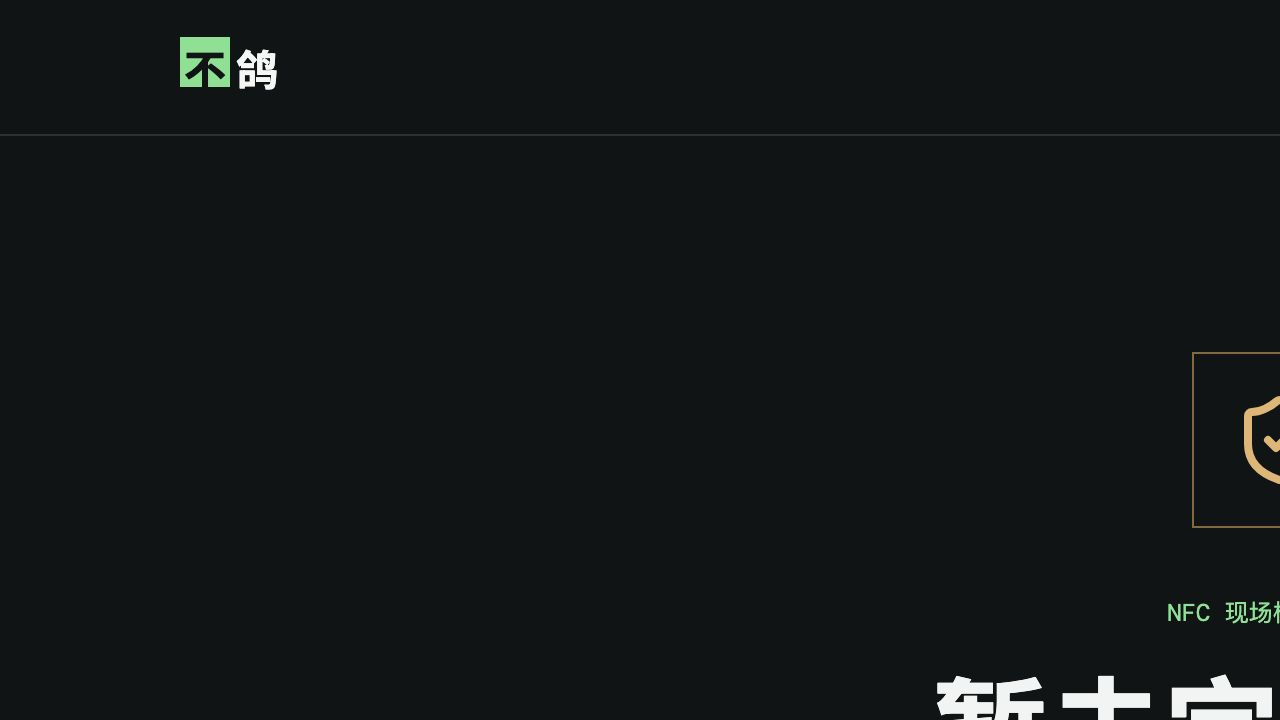
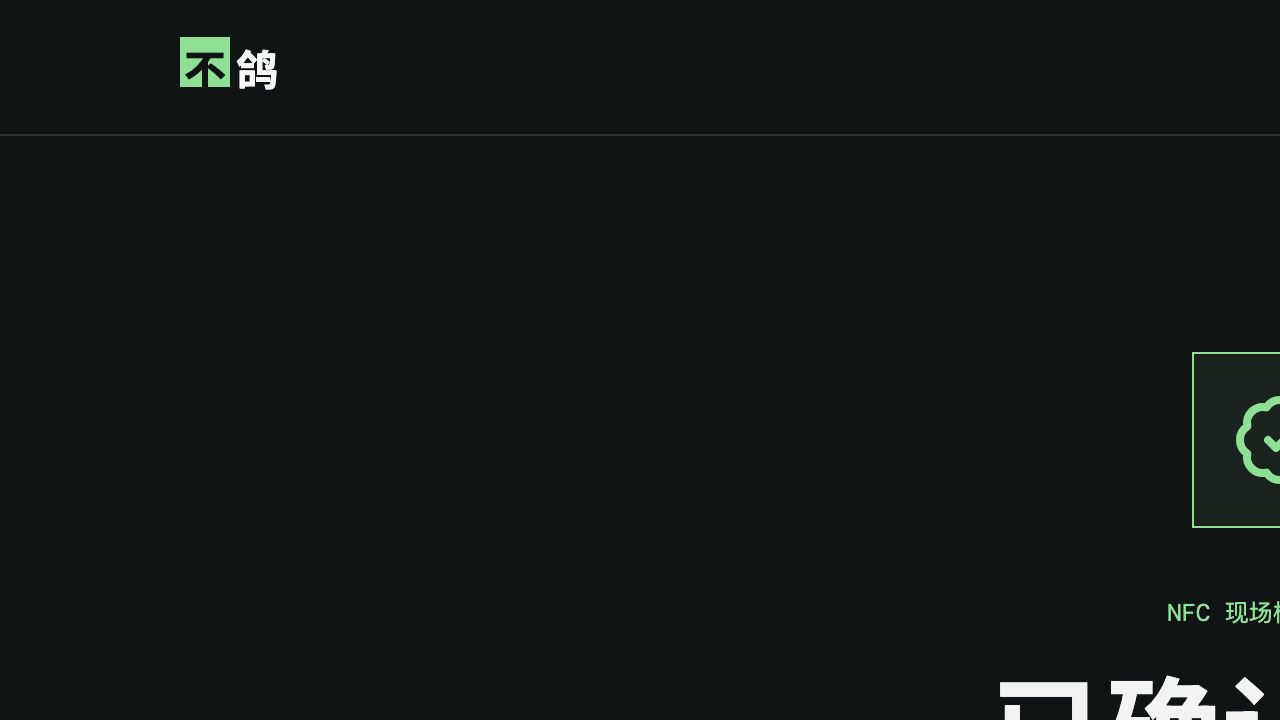
请先连接钱包，读取这场活动的链上状态

diff --git a/src/main.jsx b/src/main.jsx
@@ -32,6 +32,7 @@ import "./styles.css";
 
 const demoAttendees = ["林一", "陈默", "吴青", "周临", "赵禾"];
 const DEMO_STAKE = "1";
+const ATTENDANCE_GAS_LIMIT = 90_000n;
 
 function App() {
   const query = new URLSearchParams(window.location.search);
@@ -49,7 +50,8 @@ function App() {
   const [notice, setNotice] = useState("");
   const [now, setNow] = useState(Date.now());
   const [tapAttempted, setTapAttempted] = useState(false);
-  const [tapState, setTapState] = useState("checking");
+  const [tapState, setTapState] = useState("ready");
+  const [tapToken, setTapToken] = useState(query.get("token") || "");
   const live = Boolean(activeAddress && event);
 
   useEffect(() => {
@@ -96,7 +98,7 @@ function App() {
       setAccount(wallet.address);
       setProvider(wallet.provider);
       const contract = getContract(wallet.signer, activeAddress);
-      const transaction = await action(contract);
+      const transaction = await action(contract, wallet);
       setNotice(`交易已发送：${shortAddress(transaction.hash)}，等待 Monad 最终确认。`);
       await transaction.wait();
       await refresh(wallet.provider, wallet.address);
@@ -149,15 +151,70 @@ function App() {
       } catch {
         // Local Vite preview has no serverless relayer. The connected wallet is only a development fallback.
       }
-      const transaction = await contract.createEvent(attestor, parseEther(DEMO_STAKE), start + 180, start + 420, start + 7200);
+      const nextId = await contract.nextEventId();
+      const transaction = await contract.createEvent(attestor, parseEther(DEMO_STAKE), start + 1800, start + 2700, start + 86400);
       setNotice("正在创建今晚活动...");
       await transaction.wait();
-      setActiveEventId(1);
-      preserveDeploymentLink(activeAddress, 1);
+      setActiveEventId(Number(nextId));
+      preserveDeploymentLink(activeAddress, Number(nextId));
       await refresh(wallet.provider, wallet.address);
-      setNotice(`活动已创建，签到 relayer：${shortAddress(attestor)}。将 /tap?token=现场令牌 写入 NFC。`);
+      setNotice(`活动已创建，签到 relayer：${shortAddress(attestor)}。在 Vercel 配置 TAP_CODES 后，将 /tap?code=短码 写入 NFC。`);
     } catch (error) {
       setNotice(error.shortMessage || error.reason || error.message);
+    } finally {
+      setBusy(false);
+    }
+  };
+
+  const connectAndCheckIn = async () => {
+    if (!window.ethereum) {
+      const dappPath = `${window.location.host}${window.location.pathname}${window.location.search}`;
+      window.location.href = `https://metamask.app.link/dapp/${dappPath}`;
+      return;
+    }
+    setBusy(true);
+    setTapState("checking");
+    try {
+      const wallet = await connectMonadWallet();
+      setAccount(wallet.address);
+      setProvider(wallet.provider);
+      if (!activeAddress) throw new Error("尚未配置不鸽合约地址。");
+      const contract = getContract(wallet.signer, activeAddress);
+      const request = await contract.checkInSelf.populateTransaction(activeEventId);
+      const transaction = await sendWithTightGas(wallet, request);
+      setNotice(`签到交易已发送：${shortAddress(transaction.hash)}，等待 Monad 最终确认。`);
+      await transaction.wait();
+      await refresh(wallet.provider, wallet.address);
+      setTapState("success");
+      setNotice("已到场，Monad 已最终确认。");
+    } catch (error) {
+      setTapState("failed");
+      setNotice(error.shortMessage || error.message || "钱包签到失败");
+    } finally {
+      setBusy(false);
+    }
+  };
+
+  const selfCheckIn = async () => {
+    if (!activeAddress) {
+      setNotice("请先解析签到码或提供合约地址。");
+      return;
+    }
+    setBusy(true);
+    try {
+      const wallet = await connectMonadWallet();
+      setAccount(wallet.address);
+      setProvider(wallet.provider);
+      const contract = getContract(wallet.signer, activeAddress);
+      const tx = await contract.checkInSelf(activeEventId);
+      setNotice(`自行签到已发送：${shortAddress(tx.hash)}，等待 Monad 最终确认。`);
+      await tx.wait();
+      await refresh(wallet.provider, wallet.address);
+      setTapState("success");
+      setNotice("已到场，Monad 已最终确认。");
+    } catch (error) {
+      setTapState("failed");
+      setNotice(error.shortMessage || error.reason || error.message || "自行签到失败");
     } finally {
       setBusy(false);
     }
@@ -179,10 +236,14 @@ function App() {
   }, [demoPresent, event, live, now]);
 
   const register = async () => {
-    if (live) return write((contract) => contract.register(activeEventId, { value: parseEther(event.stake) }));
+    // A temporary RPC read failure must not prevent a wallet from submitting
+    // the registration transaction. The contract remains the source of truth.
     if (activeAddress) {
-      setNotice("请先连接钱包，读取这场活动的链上状态。");
-      return;
+      const stake = event?.stake || DEMO_STAKE;
+      return write(async (contract, wallet) => {
+        const request = await contract.register.populateTransaction(activeEventId, { value: parseEther(stake) });
+        return sendWithTightGas(wallet, request);
+      });
     }
     setBusy(true);
     setNotice("正在锁定保证金...");
@@ -193,8 +254,13 @@ function App() {
     }, 800);
   };
 
+  const sendWithTightGas = async (wallet, request) => {
+    // Monad charges the submitted gas limit. 90k is a tight fixed cap for the
+    // two single-attendee writes in this MVP and avoids wallet RPC estimate failures.
+    return wallet.signer.sendTransaction({ ...request, gasLimit: ATTENDANCE_GAS_LIMIT });
+  };
+
   const submitNfcTap = async (wallet) => {
-    const tapToken = query.get("token");
     if (!tapToken) throw new Error("此 NFC 标签缺少现场令牌。");
     const response = await fetch("/api/checkin", {
       method: "POST",
@@ -208,36 +274,40 @@ function App() {
     setNotice(result.alreadyCheckedIn ? "你已确认到场。" : "已到场，Monad 已最终确认。");
   };
 
+  // Resolve short tap code (e.g. ?code=abc) into full config.
+  useEffect(() => {
+    const code = query.get("code");
+    if (page !== "tap" || !code || tapToken) return;
+    let cancelled = false;
+    (async () => {
+      setTapState("checking");
+      try {
+        const res = await fetch(`/api/tap-config?code=${encodeURIComponent(code)}`);
+        if (!res.ok) throw new Error((await res.json()).error || "无法解析签到码");
+        const cfg = await res.json();
+        if (cancelled) return;
+        setActiveAddress(cfg.contract);
+        setActiveEventId(cfg.eventId);
+        setTapToken(cfg.token);
+      } catch (err) {
+        if (cancelled) return;
+        setTapState("failed");
+        setNotice(err.message || "签到码无效");
+      }
+    })();
+    return () => { cancelled = true; };
+  }, [page, tapToken]);
+
   useEffect(() => {
     if (page !== "tap" || tapAttempted) return;
+    // Wait for short-code resolution if a code param is present.
+    if (query.get("code") && !tapToken) return;
     setTapAttempted(true);
-    const checkInFromNfc = async () => {
-      setBusy(true);
-      try {
-        if (!activeAddress) {
-          await new Promise((resolve) => window.setTimeout(resolve, 820));
-          setDemoPresent((current) => current.includes("吴青") ? current : [...current, "吴青"]);
-          setTapState("success");
-          setNotice("本地预览：已模拟 Monad 到场确认。");
-          return;
-        }
-        const wallet = await recoverMonadWallet();
-        if (!wallet) throw new Error("未找到已授权的报名钱包。请使用报名时的同一浏览器打开 NFC 标签。");
-        setAccount(wallet.address);
-        setProvider(wallet.provider);
-        await submitNfcTap(wallet);
-      } catch (error) {
-        setTapState("failed");
-        setNotice(error.shortMessage || error.message || "无法确认到场");
-      } finally {
-        setBusy(false);
-      }
-    };
-    checkInFromNfc();
+    setTapState("ready");
   }, [activeAddress, page, tapAttempted]);
 
   const shared = { account, activeAddress, activeEventId, busy, connect, event, live, notice, participant, register, status, write };
-  if (page === "tap") return <TapPage tapState={tapState} notice={notice} />;
+  if (page === "tap") return <TapPage tapState={tapState} notice={notice} busy={busy} connectAndCheckIn={connectAndCheckIn} selfCheckIn={selfCheckIn} />;
   if (page === "admin") return <AdminPage {...shared} createTonightEvent={createTonightEvent} deploy={deploy} />;
   return <RegistrationPage {...shared} demoRegistered={demoRegistered} />;
 }
@@ -247,7 +317,7 @@ function Topbar({ account, busy, connect, admin = false, activeAddress, event, d
     <a className="brand" href="/" aria-label="不鸽首页"><span>不</span>鸽</a>
     <div className="network"><Radio size={14} /> {monad.name}</div>
     {admin && !activeAddress && <button className="setup-button" onClick={deploy} disabled={busy}><Landmark size={15} /> 部署合约</button>}
-    {admin && activeAddress && !event && <button className="setup-button" onClick={createTonightEvent} disabled={busy}><ChevronRight size={15} /> 创建活动</button>}
+    {admin && activeAddress && <button className="setup-button" onClick={createTonightEvent} disabled={busy}><ChevronRight size={15} /> 创建新活动</button>}
     {connect && <button className="wallet-button" onClick={connect} disabled={busy}><WalletCards size={16} /> {account ? shortAddress(account) : "连接钱包"}</button>}
   </nav>;
 }
@@ -282,7 +352,7 @@ function RegistrationPage({ account, activeAddress, activeEventId, busy, connect
           <div className="panel-label"><Fingerprint size={16} /> 到场方式</div>
           <ol>
             <li><span>01</span><div><b>报名锁金</b><small>你的钱包与本次活动绑定</small></div></li>
-            <li><span>02</span><div><b>现场碰触 NFC</b><small>不扫二维码，不再签一次钱包</small></div></li>
+            <li><span>02</span><div><b>现场碰触 NFC</b><small>点击一次打开 MetaMask 确认</small></div></li>
             <li><span>03</span><div><b>Monad 最终确认</b><small>到场资格和结算份额同时锁定</small></div></li>
           </ol>
         </aside>
@@ -293,18 +363,37 @@ function RegistrationPage({ account, activeAddress, activeEventId, busy, connect
   </main>;
 }
 
-function TapPage({ tapState, notice }) {
+function TapPage({ tapState, notice, busy, connectAndCheckIn, selfCheckIn }) {
   const success = tapState === "success";
   const failed = tapState === "failed";
+  const checking = tapState === "checking";
+  const ready = tapState === "ready";
   return <main className="tap-page">
     <nav className="topbar"><a className="brand" href="/" aria-label="不鸽首页"><span>不</span>鸽</a><div className="network"><Radio size={14} /> Monad</div></nav>
     <section className="tap-shell">
       <div className={`tap-mark ${success ? "success" : failed ? "failed" : ""}`}>{success ? <BadgeCheck size={48} /> : failed ? <ShieldCheck size={48} /> : <LoaderCircle className="spin" size={48} />}</div>
       <p className="eyebrow">NFC 现场标签已识别</p>
-      <h1>{success ? "已确认到场" : failed ? "暂未完成确认" : "正在确认到场"}</h1>
-      <p className="tap-copy">{success ? "你的到场资格已经写入 Monad。签到窗口关闭后，你可领取保证金返还与爽约池份额。" : failed ? notice : "无需工作人员操作，活动 relayer 正在代付 gas 并写入 Monad。"}</p>
-      <div className="tap-status"><span className={success ? "done" : ""}>{success ? <Check size={16} /> : <LoaderCircle className="spin" size={16} />}</span><div><b>{success ? "Monad 已最终确认" : "等待 Monad 最终确认"}</b><small>{success ? "到场资格已锁定" : "通常约 0.8 秒"}</small></div></div>
+      <h1>{success ? "已确认到场" : failed ? "暂未完成确认" : checking ? "正在确认到场" : "碰触已完成"}</h1>
+      {ready && <p className="tap-copy">点击下方按钮打开 MetaMask，确认这次到场。现场无需工作人员操作。</p>}
+      {checking && <p className="tap-copy">MetaMask 正在把你的到场确认写入 Monad。</p>}
+      {success && <p className="tap-copy">你的到场资格已经写入 Monad。签到窗口关闭后，你可领取保证金返还与爽约池份额。</p>}
+      {failed && <p className="tap-copy">{notice || "自动签到未能完成。你可以手动连接钱包完成签到。"}</p>}
+      {checking && (
+        <div className="tap-status"><span><LoaderCircle className="spin" size={16} /></span><div><b>等待 Monad 最终确认</b><small>通常约 0.8 秒</small></div></div>
+      )}
+      {success && (
+        <div className="tap-status"><span className="done"><Check size={16} /></span><div><b>Monad 已最终确认</b><small>到场资格已锁定</small></div></div>
+      )}
       {success && <p className="tap-finish">现在可以直接进入会场。</p>}
+      {(failed || ready) && (
+        <div className="tap-actions">
+          <button className="deposit-button" onClick={connectAndCheckIn} disabled={busy}>
+            {busy ? <LoaderCircle className="spin" size={18} /> : <WalletCards size={18} />}
+            打开 MetaMask 并签到
+          </button>
+          <p className="deposit-note" style={{textAlign:"center"}}>确认一笔低费 Monad 交易后，页面显示最终到场状态。</p>
+        </div>
+      )}
     </section>
   </main>;
 }

diff --git a/api/tap-config.js b/api/tap-config.js
@@ -1,0 +1,21 @@
+export default function handler(request, response) {
+  const url = new URL(request.url, `http://${request.headers.host}`);
+  const code = url.searchParams.get("code");
+  if (!code) return response.status(400).json({ error: "Missing tap code" });
+
+  let mapping;
+  try {
+    mapping = JSON.parse(process.env.TAP_CODES || "{}");
+  } catch {
+    return response.status(500).json({ error: "Invalid TAP_CODES config" });
+  }
+
+  const entry = mapping[code];
+  if (!entry) return response.status(404).json({ error: "Unknown tap code" });
+
+  return response.status(200).json({
+    contract: process.env.BUGE_CONTRACT_ADDRESS,
+    eventId: entry.eventId,
+    token: entry.token
+  });
+}

diff --git a/api/checkin.js b/api/checkin.js
@@ -12,7 +12,8 @@ export default async function handler(request, response) {
 
   try {
     const provider = new JsonRpcProvider(process.env.MONAD_RPC_URL);
-    const attestor = new Wallet(process.env.ATTESTOR_PRIVATE_KEY, provider);
+    const rawKey = process.env.ATTESTOR_PRIVATE_KEY;
+    const attestor = new Wallet(rawKey.startsWith("0x") ? rawKey : `0x${rawKey}`, provider);
     const contract = new Contract(process.env.BUGE_CONTRACT_ADDRESS, artifact.abi, attestor);
     const participant = await contract.participantDetails(eventId, attendee);
     if (!participant.registered) return response.status(400).json({ error: "This wallet is not registered" });

diff --git a/src/styles.css b/src/styles.css
@@ -56,6 +56,8 @@ button:disabled { cursor: not-allowed; opacity: .52; }
 .tap-status b { font-size: 14px; }
 .tap-status small { color: #8e9895; font-size: 12px; margin-top: 3px; }
 .tap-finish { color: #71e38b; font-size: 14px; margin-top: 24px; }
+.tap-actions { margin-top: 32px; display: flex; flex-direction: column; gap: 10px; align-items: stretch; }
+.tap-actions .deposit-button, .tap-actions .finalize-button { width: 100%; min-height: 46px; font-size: 14px; }
 
 .shell { max-width: 1100px; margin: 0 auto; padding: 54px 24px 24px; }
 .event-header { display: flex; justify-content: space-between; align-items: end; margin-bottom: 38px; }

diff --git a/src/contract.js b/src/contract.js
@@ -12,6 +12,7 @@ export const contractAddress = import.meta.env.VITE_BUGE_CONTRACT_ADDRESS || "";
 export const eventId = Number(import.meta.env.VITE_BUGE_EVENT_ID || 1);
 
 export const abi = [
+  "function nextEventId() view returns (uint256)",
   "function createEvent(address attestor,uint96 stake,uint40 registrationDeadline,uint40 checkInDeadline,uint40 claimDeadline) returns (uint256 eventId)",
   "function register(uint256 eventId) payable",
   "function checkInSelf(uint256 eventId)",

diff --git a/api/relay-info.js b/api/relay-info.js
@@ -4,5 +4,6 @@ export default function handler(_request, response) {
   if (!process.env.ATTESTOR_PRIVATE_KEY) {
     return response.status(503).json({ error: "Relayer is not configured" });
   }
-  return response.status(200).json({ attestorAddress: new Wallet(process.env.ATTESTOR_PRIVATE_KEY).address });
+  const rawKey = process.env.ATTESTOR_PRIVATE_KEY;
+  return response.status(200).json({ attestorAddress: new Wallet(rawKey.startsWith("0x") ? rawKey : `0x${rawKey}`).address });
 }

diff --git a/README.md b/README.md
@@ -2,6 +2,15 @@
 
 不鸽是一个运行在 Monad 上的活动到场保证金协议：报名者锁定保证金，到场者在签到窗口内获得链上到场资格；窗口关闭后，爽约者留下的资金按规则归到场者领取。
 
+## demo地址
+报名端
+https://buge-omega.vercel.app/
+签到端（短码 URL，写入 NFC）
+https://buge-omega.vercel.app/tap?code=buge2
+管理端
+https://buge-omega.vercel.app/admin
+
+
 ## 今晚 Demo 的真实边界
 
 - 链上：保证金、报名、到场状态、截止时间、结算和领取。
@@ -32,19 +41,21 @@ MONAD_RPC_URL="..." DEPLOYER_PRIVATE_KEY="..." npm run deploy
 4. 通过合约的 `createEvent(attestor, stake, registrationDeadline, checkInDeadline, claimDeadline)` 创建活动；将活动编号填入 `VITE_BUGE_EVENT_ID`。
 5. 重新构建并部署前端。
 
-## 无工作人员 NFC Demo
+## 无工作人员 Demo
 
 这里的“无工作人员”指活动现场不需要扫码员或人工逐一确认，不是把物理世界的验证凭空变成链上事实。完整闭环是：报名时钱包锁定保证金 -> 到场时碰触 NFC -> relayer 代表活动提交链上到场 -> Monad 最终确认 -> 截止后合约按规则结算。
 
 部署后的界面按参与者任务拆分：
 
 - `/`：报名并锁入保证金。
-- `/tap?contract=0x...&event=1&token=...`：NFC 打开的自动签到页，仅显示确认中与成功状态，没有签到按钮。
+- `/tap?code=现场短码`：NFC 打开的自动签到页，仅显示确认中与成功状态。如果自动签到失败，页面会展示"连接钱包签到"和"自行签名签到"两个手动按钮。
 - `/admin?contract=0x...&event=1`：组织者查看到场人数并在窗口关闭后触发结算。
 
 1. 报名者在同一域名先连接钱包并调用 `register()` 锁定保证金。钱包对该域名的授权会被浏览器保留。
-2. Vercel 配置 `MONAD_RPC_URL`、`ATTESTOR_PRIVATE_KEY`、`BUGE_CONTRACT_ADDRESS` 与 `NFC_TAP_TOKEN`。`ATTESTOR_PRIVATE_KEY` 必须是活动创建时配置的 `attestor` 地址，且应使用仅含演示资金的专用 relayer 钱包。
-3. NFC 标签写入 `https://你的域名/tap?contract=合约地址&event=活动编号&token=你的NFC_TAP_TOKEN`。
-4. 现场碰触后，页面无须再次弹钱包；它以 `eth_accounts` 恢复此前授权的钱包地址，调用 `/api/checkin`。relayer 代付 gas 并发送 `attestCheckIn()`，页面只在 Monad `finalized` 状态后显示“已到场”。因此现场没有排队的扫码动作，也没有每人一次的钱包确认。
+2. Vercel 配置 `MONAD_RPC_URL`、`ATTESTOR_PRIVATE_KEY`、`BUGE_CONTRACT_ADDRESS`、`NFC_TAP_TOKEN` 与 `TAP_CODES`。`ATTESTOR_PRIVATE_KEY` 必须是活动创建时配置的 `attestor` 地址，且应使用仅含演示资金的专用 relayer 钱包。`TAP_CODES` 格式为 `{"短码":{"eventId":活动编号,"token":"令牌值"}}`。
+3. NFC 标签写入 `https://你的域名/tap?code=短码`（例如 `https://你的域名/tap?code=buge2`）。短码由 Vercel 环境变量 `TAP_CODES` 配置，格式为 `{"短码":{"eventId":活动编号,"token":"NFC_TAP_TOKEN"}}`。
+4. 现场碰触后，页面无须再次弹钱包；它以 `eth_accounts` 恢复此前授权的钱包地址，调用 `/api/checkin`。relayer 代付 gas 并发送 `attestCheckIn()`，页面只在 Monad `finalized` 状态后显示”已到场”。因此现场没有排队的扫码动作，也没有每人一次的钱包确认。
+5. 如果自动签到失败（例如换了浏览器、钱包未授权），页面会展示两个手动按钮：
+   - **连接钱包签到**：唤起 MetaMask 授权后由 relayer 代付 gas 完成签到。
+   - **自行签名签到**：直接调用合约 `checkInSelf()`，由用户自己支付 gas。
 
-普通静态 URL NFC 仍可被复制，因此今天它是无排队的 MVP 交互而不是严格的反作弊证明。生产版必须使用安全动态 NFC（例如 NTAG 424 DNA）验证每次 tap 的 MAC/counter；服务端验证后再调用 `attestCheckIn`。
